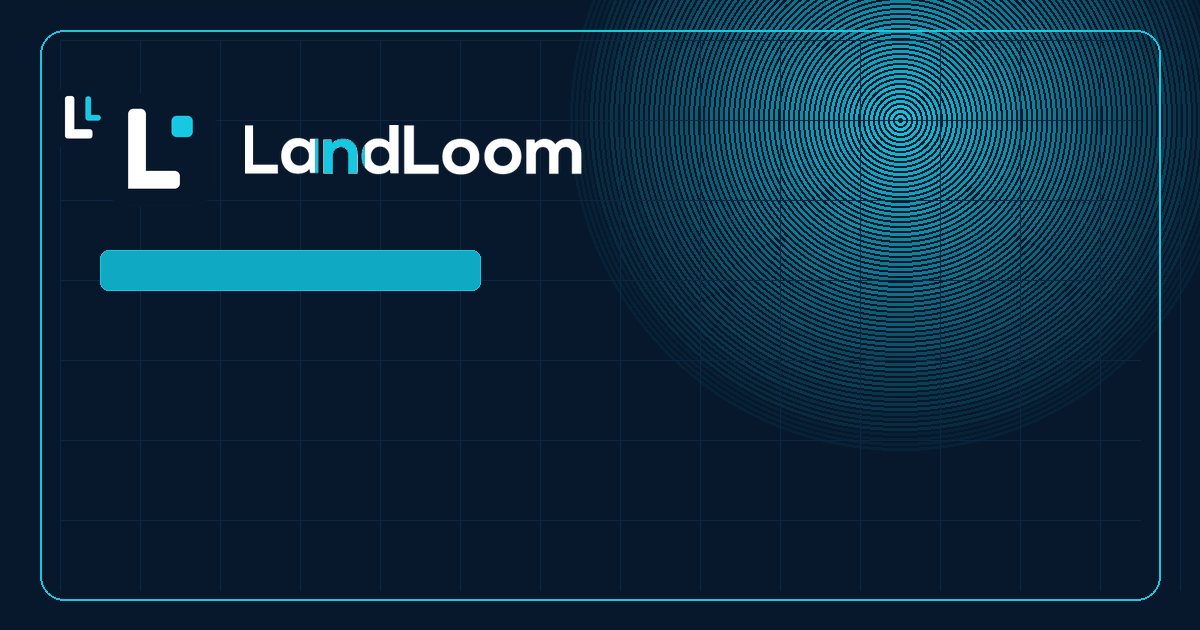
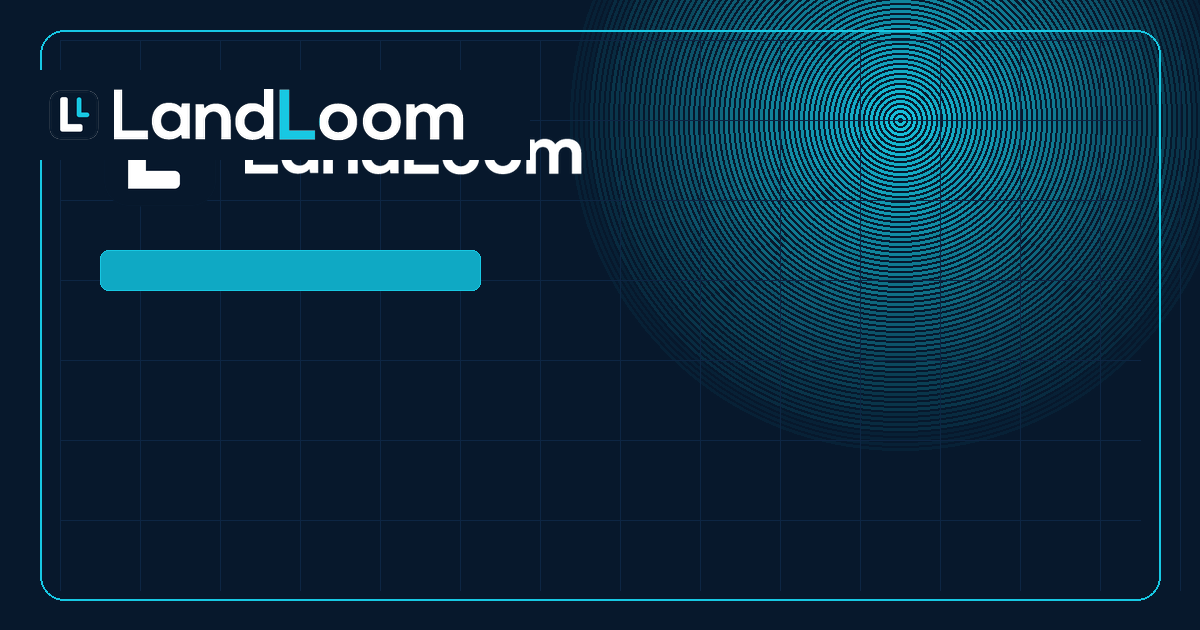
Position twin LL monogram emblem to the left of LandLoom wordmark and bust asset cache to v3

Changed region(s): [[0.0308, 0.1206, 0.4317, 0.2714]]

diff --git a/pages/landing.html b/pages/landing.html
@@ -7,11 +7,11 @@
   <meta name="google-site-verification" content="DjcprG6EDZYXybz9fFyDqEQE7mIPvmsJXTnEDVi7J6c">
   <title>LandLoom | منصة إعداد دراسات الفرص العقارية</title>
   <meta name="description" content="لاند لوم منصة إعداد دراسات الفرص العقارية — من بيانات الأرض وتحليل الموقع والسوق إلى الدراسة المالية والتصورات البصرية، بدراسة قابلة للمراجعة والاعتماد والتصدير بهوية شركتك وبالعربية والإنجليزية.">
-  <link rel="icon" type="image/svg+xml" href="/assets/favicon.svg?v=2">
-  <link rel="icon" type="image/png" sizes="48x48" href="/assets/favicon-48.png?v=2">
-  <link rel="icon" type="image/png" sizes="32x32" href="/assets/favicon-32.png?v=2">
-  <link rel="icon" type="image/png" sizes="16x16" href="/assets/favicon-16.png?v=2">
-  <link rel="apple-touch-icon" sizes="180x180" href="/assets/apple-touch-icon.png?v=2">
+  <link rel="icon" type="image/svg+xml" href="/assets/favicon.svg?v=3">
+  <link rel="icon" type="image/png" sizes="48x48" href="/assets/favicon-48.png?v=3">
+  <link rel="icon" type="image/png" sizes="32x32" href="/assets/favicon-32.png?v=3">
+  <link rel="icon" type="image/png" sizes="16x16" href="/assets/favicon-16.png?v=3">
+  <link rel="apple-touch-icon" sizes="180x180" href="/assets/apple-touch-icon.png?v=3">
   <link rel="manifest" href="/assets/site.webmanifest">
   <meta name="theme-color" content="#07182C">
   <link rel="canonical" href="https://landloom.ai/">
@@ -236,7 +236,7 @@
   <header class="site-topbar on-dark">
     <div class="wrap">
       <a class="site-brand" href="/">
-        <img src="/assets/landloom-logo-white.png" alt="LandLoom">
+        <img src="/assets/landloom-logo-white.png?v=3" alt="LandLoom">
         <span class="brand-beta"><span lang="ar">نسخة تجريبية</span><span lang="en">Beta version</span></span>
       </a>
       <nav class="site-nav">
@@ -746,7 +746,7 @@
 
   <footer class="site-footer">
     <div class="wrap">
-      <img src="/assets/landloom-logo-white.png" alt="LandLoom">
+      <img src="/assets/landloom-logo-white.png?v=3" alt="LandLoom">
       <nav>
         <a href="/privacy"><span lang="ar">سياسة الخصوصية</span><span lang="en">Privacy Policy</span></a>
         <a href="/terms"><span lang="ar">الشروط والأحكام</span><span lang="en">Terms &amp; Conditions</span></a>

diff --git a/index.html b/index.html
@@ -7,11 +7,11 @@
   <meta name="robots" content="noindex, nofollow, noarchive">
   <meta name="google-site-verification" content="DjcprG6EDZYXybz9fFyDqEQE7mIPvmsJXTnEDVi7J6c">
   <title>منصة العروض التقديمية | مولّد عروض المشاريع</title>
-  <link rel="icon" type="image/svg+xml" href="/assets/favicon.svg?v=2">
-  <link rel="icon" type="image/png" sizes="48x48" href="/assets/favicon-48.png?v=2">
-  <link rel="icon" type="image/png" sizes="32x32" href="/assets/favicon-32.png?v=2">
-  <link rel="icon" type="image/png" sizes="16x16" href="/assets/favicon-16.png?v=2">
-  <link rel="apple-touch-icon" sizes="180x180" href="/assets/apple-touch-icon.png?v=2">
+  <link rel="icon" type="image/svg+xml" href="/assets/favicon.svg?v=3">
+  <link rel="icon" type="image/png" sizes="48x48" href="/assets/favicon-48.png?v=3">
+  <link rel="icon" type="image/png" sizes="32x32" href="/assets/favicon-32.png?v=3">
+  <link rel="icon" type="image/png" sizes="16x16" href="/assets/favicon-16.png?v=3">
+  <link rel="apple-touch-icon" sizes="180x180" href="/assets/apple-touch-icon.png?v=3">
   <link rel="manifest" href="/assets/site.webmanifest">
   <meta name="theme-color" content="#07182C">
   <link rel="preconnect" href="https://fonts.googleapis.com">
@@ -61,7 +61,7 @@
     <div class="auth-card">
       <button type="button" class="lang-toggle-btn auth-lang-toggle" onclick="toggleAppLanguage()">English</button>
       <div class="auth-brand">
-        <img class="auth-brand-logo" src="/assets/landloom-logo.png" alt="LandLoom">
+        <img class="auth-brand-logo" src="/assets/landloom-logo.png?v=3" alt="LandLoom">
         <span class="auth-brand-beta" data-i18n="auth.beta">نسخة تجريبية</span>
         <p class="auth-brand-tag" data-i18n="auth.tagline">منصة توليد العروض والدراسات العقارية</p>
       </div>
@@ -107,7 +107,7 @@
     <aside id="tenantSidebar" class="tenant-sidebar">
       <div class="tenant-sidebar-brand">
         <div class="tenant-platform-brand">
-          <img src="/assets/landloom-logo.png" alt="LandLoom">
+          <img src="/assets/landloom-logo.png?v=3" alt="LandLoom">
         </div>
       </div>
       <div class="tenant-sidebar-cta">

diff --git a/pages/about.html b/pages/about.html
@@ -6,11 +6,11 @@
   <meta name="viewport" content="width=device-width,initial-scale=1">
   <title>من نحن | LandLoom</title>
   <meta name="description" content="لاند لوم — منصة سحابية تولّد العروض التقديمية والدراسات العقارية بالذكاء الاصطناعي.">
-  <link rel="icon" type="image/svg+xml" href="/assets/favicon.svg?v=2">
-  <link rel="icon" type="image/png" sizes="48x48" href="/assets/favicon-48.png?v=2">
-  <link rel="icon" type="image/png" sizes="32x32" href="/assets/favicon-32.png?v=2">
-  <link rel="icon" type="image/png" sizes="16x16" href="/assets/favicon-16.png?v=2">
-  <link rel="apple-touch-icon" sizes="180x180" href="/assets/apple-touch-icon.png?v=2">
+  <link rel="icon" type="image/svg+xml" href="/assets/favicon.svg?v=3">
+  <link rel="icon" type="image/png" sizes="48x48" href="/assets/favicon-48.png?v=3">
+  <link rel="icon" type="image/png" sizes="32x32" href="/assets/favicon-32.png?v=3">
+  <link rel="icon" type="image/png" sizes="16x16" href="/assets/favicon-16.png?v=3">
+  <link rel="apple-touch-icon" sizes="180x180" href="/assets/apple-touch-icon.png?v=3">
   <link rel="manifest" href="/assets/site.webmanifest">
   <meta name="theme-color" content="#07182C">
   <link rel="alternate" type="text/plain" href="https://landloom.ai/llms.txt" title="LLM Context">
@@ -37,7 +37,7 @@
   <header class="site-topbar">
     <div class="wrap">
       <a class="site-brand" href="/">
-        <img src="/assets/landloom-logo.png" alt="LandLoom">
+        <img src="/assets/landloom-logo.png?v=3" alt="LandLoom">
         <span class="brand-beta"><span lang="ar">نسخة تجريبية</span><span lang="en">Beta version</span></span>
       </a>
       <nav class="site-nav">
@@ -103,7 +103,7 @@
 
   <footer class="site-footer">
     <div class="wrap">
-      <img src="/assets/landloom-logo-white.png" alt="LandLoom">
+      <img src="/assets/landloom-logo-white.png?v=3" alt="LandLoom">
       <nav>
         <a href="/terms"><span lang="ar">شروط الاستخدام</span><span lang="en">Terms of Use</span></a>
         <a href="/privacy"><span lang="ar">سياسة الخصوصية</span><span lang="en">Privacy Policy</span></a>

diff --git a/pages/privacy.html b/pages/privacy.html
@@ -6,11 +6,11 @@
   <meta name="viewport" content="width=device-width,initial-scale=1">
   <title>سياسة الخصوصية | LandLoom</title>
   <meta name="description" content="سياسة خصوصية منصة لاند لوم — كيف نجمع بياناتك ونستخدمها ونحميها.">
-  <link rel="icon" type="image/svg+xml" href="/assets/favicon.svg?v=2">
-  <link rel="icon" type="image/png" sizes="48x48" href="/assets/favicon-48.png?v=2">
-  <link rel="icon" type="image/png" sizes="32x32" href="/assets/favicon-32.png?v=2">
-  <link rel="icon" type="image/png" sizes="16x16" href="/assets/favicon-16.png?v=2">
-  <link rel="apple-touch-icon" sizes="180x180" href="/assets/apple-touch-icon.png?v=2">
+  <link rel="icon" type="image/svg+xml" href="/assets/favicon.svg?v=3">
+  <link rel="icon" type="image/png" sizes="48x48" href="/assets/favicon-48.png?v=3">
+  <link rel="icon" type="image/png" sizes="32x32" href="/assets/favicon-32.png?v=3">
+  <link rel="icon" type="image/png" sizes="16x16" href="/assets/favicon-16.png?v=3">
+  <link rel="apple-touch-icon" sizes="180x180" href="/assets/apple-touch-icon.png?v=3">
   <link rel="manifest" href="/assets/site.webmanifest">
   <meta name="theme-color" content="#07182C">
   <link rel="stylesheet" href="/pages/site.css">
@@ -22,7 +22,7 @@
   <header class="site-topbar">
     <div class="wrap">
       <a class="site-brand" href="/">
-        <img src="/assets/landloom-logo.png" alt="LandLoom">
+        <img src="/assets/landloom-logo.png?v=3" alt="LandLoom">
         <span class="brand-beta"><span lang="ar">نسخة تجريبية</span><span lang="en">Beta version</span></span>
       </a>
       <nav class="site-nav">
@@ -128,7 +128,7 @@
 
   <footer class="site-footer">
     <div class="wrap">
-      <img src="/assets/landloom-logo-white.png" alt="LandLoom">
+      <img src="/assets/landloom-logo-white.png?v=3" alt="LandLoom">
       <nav>
         <a href="/terms"><span lang="ar">شروط الاستخدام</span><span lang="en">Terms of Use</span></a>
         <a href="/privacy"><span lang="ar">سياسة الخصوصية</span><span lang="en">Privacy Policy</span></a>

diff --git a/pages/terms.html b/pages/terms.html
@@ -6,11 +6,11 @@
   <meta name="viewport" content="width=device-width,initial-scale=1">
   <title>شروط الاستخدام | LandLoom</title>
   <meta name="description" content="شروط استخدام منصة لاند لوم لتوليد العروض والدراسات العقارية.">
-  <link rel="icon" type="image/svg+xml" href="/assets/favicon.svg?v=2">
-  <link rel="icon" type="image/png" sizes="48x48" href="/assets/favicon-48.png?v=2">
-  <link rel="icon" type="image/png" sizes="32x32" href="/assets/favicon-32.png?v=2">
-  <link rel="icon" type="image/png" sizes="16x16" href="/assets/favicon-16.png?v=2">
-  <link rel="apple-touch-icon" sizes="180x180" href="/assets/apple-touch-icon.png?v=2">
+  <link rel="icon" type="image/svg+xml" href="/assets/favicon.svg?v=3">
+  <link rel="icon" type="image/png" sizes="48x48" href="/assets/favicon-48.png?v=3">
+  <link rel="icon" type="image/png" sizes="32x32" href="/assets/favicon-32.png?v=3">
+  <link rel="icon" type="image/png" sizes="16x16" href="/assets/favicon-16.png?v=3">
+  <link rel="apple-touch-icon" sizes="180x180" href="/assets/apple-touch-icon.png?v=3">
   <link rel="manifest" href="/assets/site.webmanifest">
   <meta name="theme-color" content="#07182C">
   <link rel="stylesheet" href="/pages/site.css">
@@ -22,7 +22,7 @@
   <header class="site-topbar">
     <div class="wrap">
       <a class="site-brand" href="/">
-        <img src="/assets/landloom-logo.png" alt="LandLoom">
+        <img src="/assets/landloom-logo.png?v=3" alt="LandLoom">
         <span class="brand-beta"><span lang="ar">نسخة تجريبية</span><span lang="en">Beta version</span></span>
       </a>
       <nav class="site-nav">
@@ -128,7 +128,7 @@
 
   <footer class="site-footer">
     <div class="wrap">
-      <img src="/assets/landloom-logo-white.png" alt="LandLoom">
+      <img src="/assets/landloom-logo-white.png?v=3" alt="LandLoom">
       <nav>
         <a href="/terms"><span lang="ar">شروط الاستخدام</span><span lang="en">Terms of Use</span></a>
         <a href="/privacy"><span lang="ar">سياسة الخصوصية</span><span lang="en">Privacy Policy</span></a>

diff --git a/tests/security/test_staging_indexing_protection.py b/tests/security/test_staging_indexing_protection.py
@@ -86,12 +86,12 @@ class StagingIndexingProtectionTests(unittest.TestCase):
             index_content = f.read()
         self.assertIn('name="robots" content="noindex, nofollow, noarchive"', index_content)
         self.assertIn('name="google-site-verification"', index_content)
-        self.assertIn('href="/assets/favicon.svg?v=2"', index_content)
+        self.assertIn('href="/assets/favicon.svg?v=3"', index_content)
 
         with open(ROOT / 'pages' / 'landing.html', 'r', encoding='utf-8') as f:
             landing_content = f.read()
         self.assertIn('name="google-site-verification"', landing_content)
-        self.assertIn('href="/assets/favicon-48.png?v=2"', landing_content)
+        self.assertIn('href="/assets/favicon-48.png?v=3"', landing_content)
         self.assertIn('property="og:image"', landing_content)
         self.assertIn('SoftwareApplication', landing_content)
 
@@ -132,8 +132,8 @@ class StagingIndexingProtectionTests(unittest.TestCase):
             self.assertTrue(page_path.exists(), f"File {page_path} must exist")
             with open(page_path, 'r', encoding='utf-8') as f:
                 content = f.read()
-            self.assertIn('/assets/favicon.svg?v=2', content, f"{page_path.name} must reference new favicon.svg?v=2")
-            self.assertIn('/assets/favicon-48.png?v=2', content, f"{page_path.name} must reference favicon-48.png?v=2")
+            self.assertIn('/assets/favicon.svg?v=3', content, f"{page_path.name} must reference new favicon.svg?v=3")
+            self.assertIn('/assets/favicon-48.png?v=3', content, f"{page_path.name} must reference favicon-48.png?v=3")
             self.assertNotIn('href="/assets/landloom-logo.png" type="image/png"', content,
                              f"{page_path.name} must not use wide logo as favicon")
 
